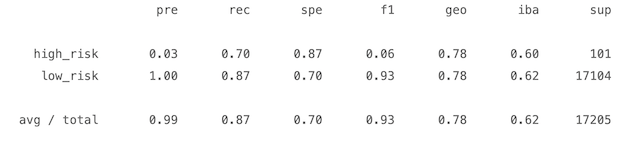
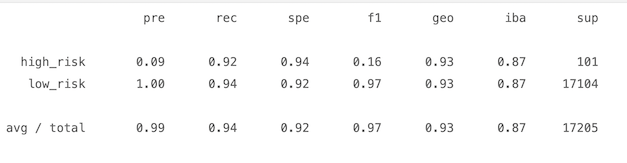
fixed the results of the ecc_model accuracy results and strated editing the project overview on the written analysis.

diff --git a/README.md b/README.md
@@ -5,6 +5,23 @@ Supervised Machine Learning
 
 ## Analysis Overview
 
+Perform credit risk analysis using imbalanced-learn and scikit-learn libraries to build and evaluate Supervised Machine learning Models using resampling techniques where models with unbalanced classes are trained and evaluated, in order to write a recommendation on whether any of them should be used to predict credit risk.
+
+
+Using the credit card credit dataset from LendingClub, a peer-to-peer lending services company, to oversample the data using the following machine learning models and their algoriths:
+- Oversampling Model
+    - RandomOverSampler Algorithm
+    - SMOTE Algorithm
+- Undersampling Model:
+    - ClusterCentroids Algorithm
+- Combination Over- and Undersampling Model
+    - SMOTEEN Algorithm
+- Reducing Bias Models:
+    - BalancedRandomForestClassifier
+    - EasyEnsembleClassifier
+
+
+
 
 ## Results
 
@@ -37,11 +54,17 @@ Supervised Machine Learning
 
 ### 2nd Test on Balanced Random Forest Classifier - Ensemble Learner
 
+
+
 ## Summary
 
 ### Model Accuracy
 
 ![model_accuracy_results](./Resources/model_accuracy_results.png)
+
+
+![model_accuracy_results1](./Resources/model_accuracy_results1.png)
+
 
 
 -------------------------------------------------------------------------------------------------------------------------------
